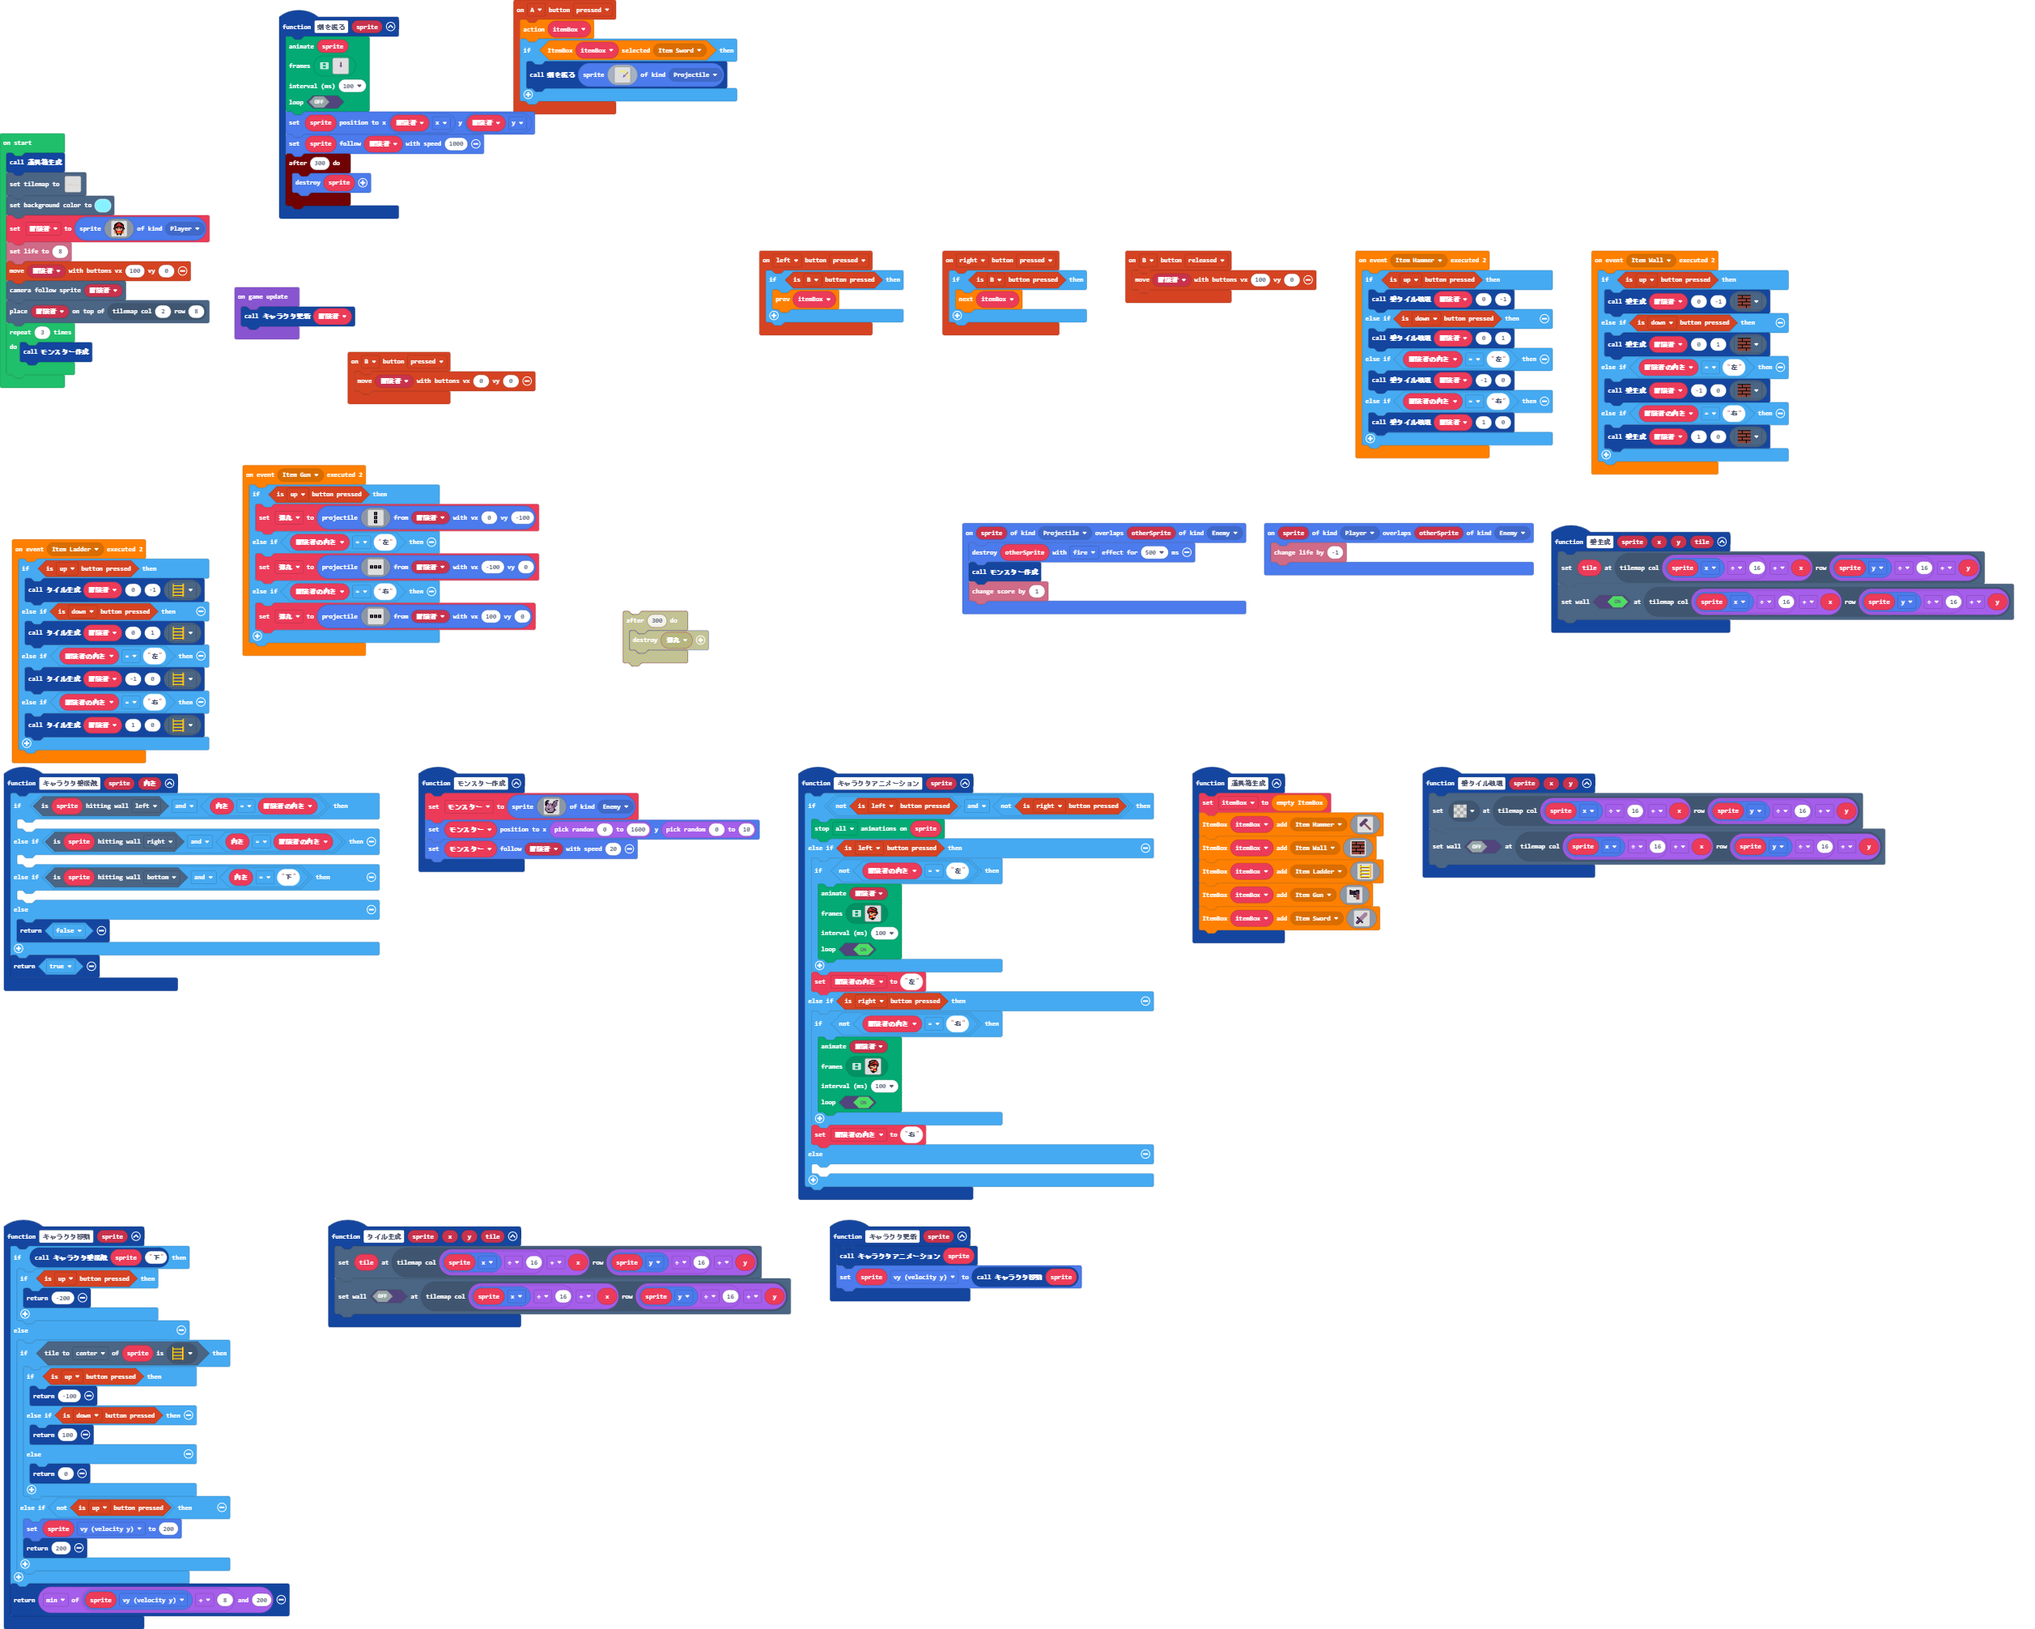
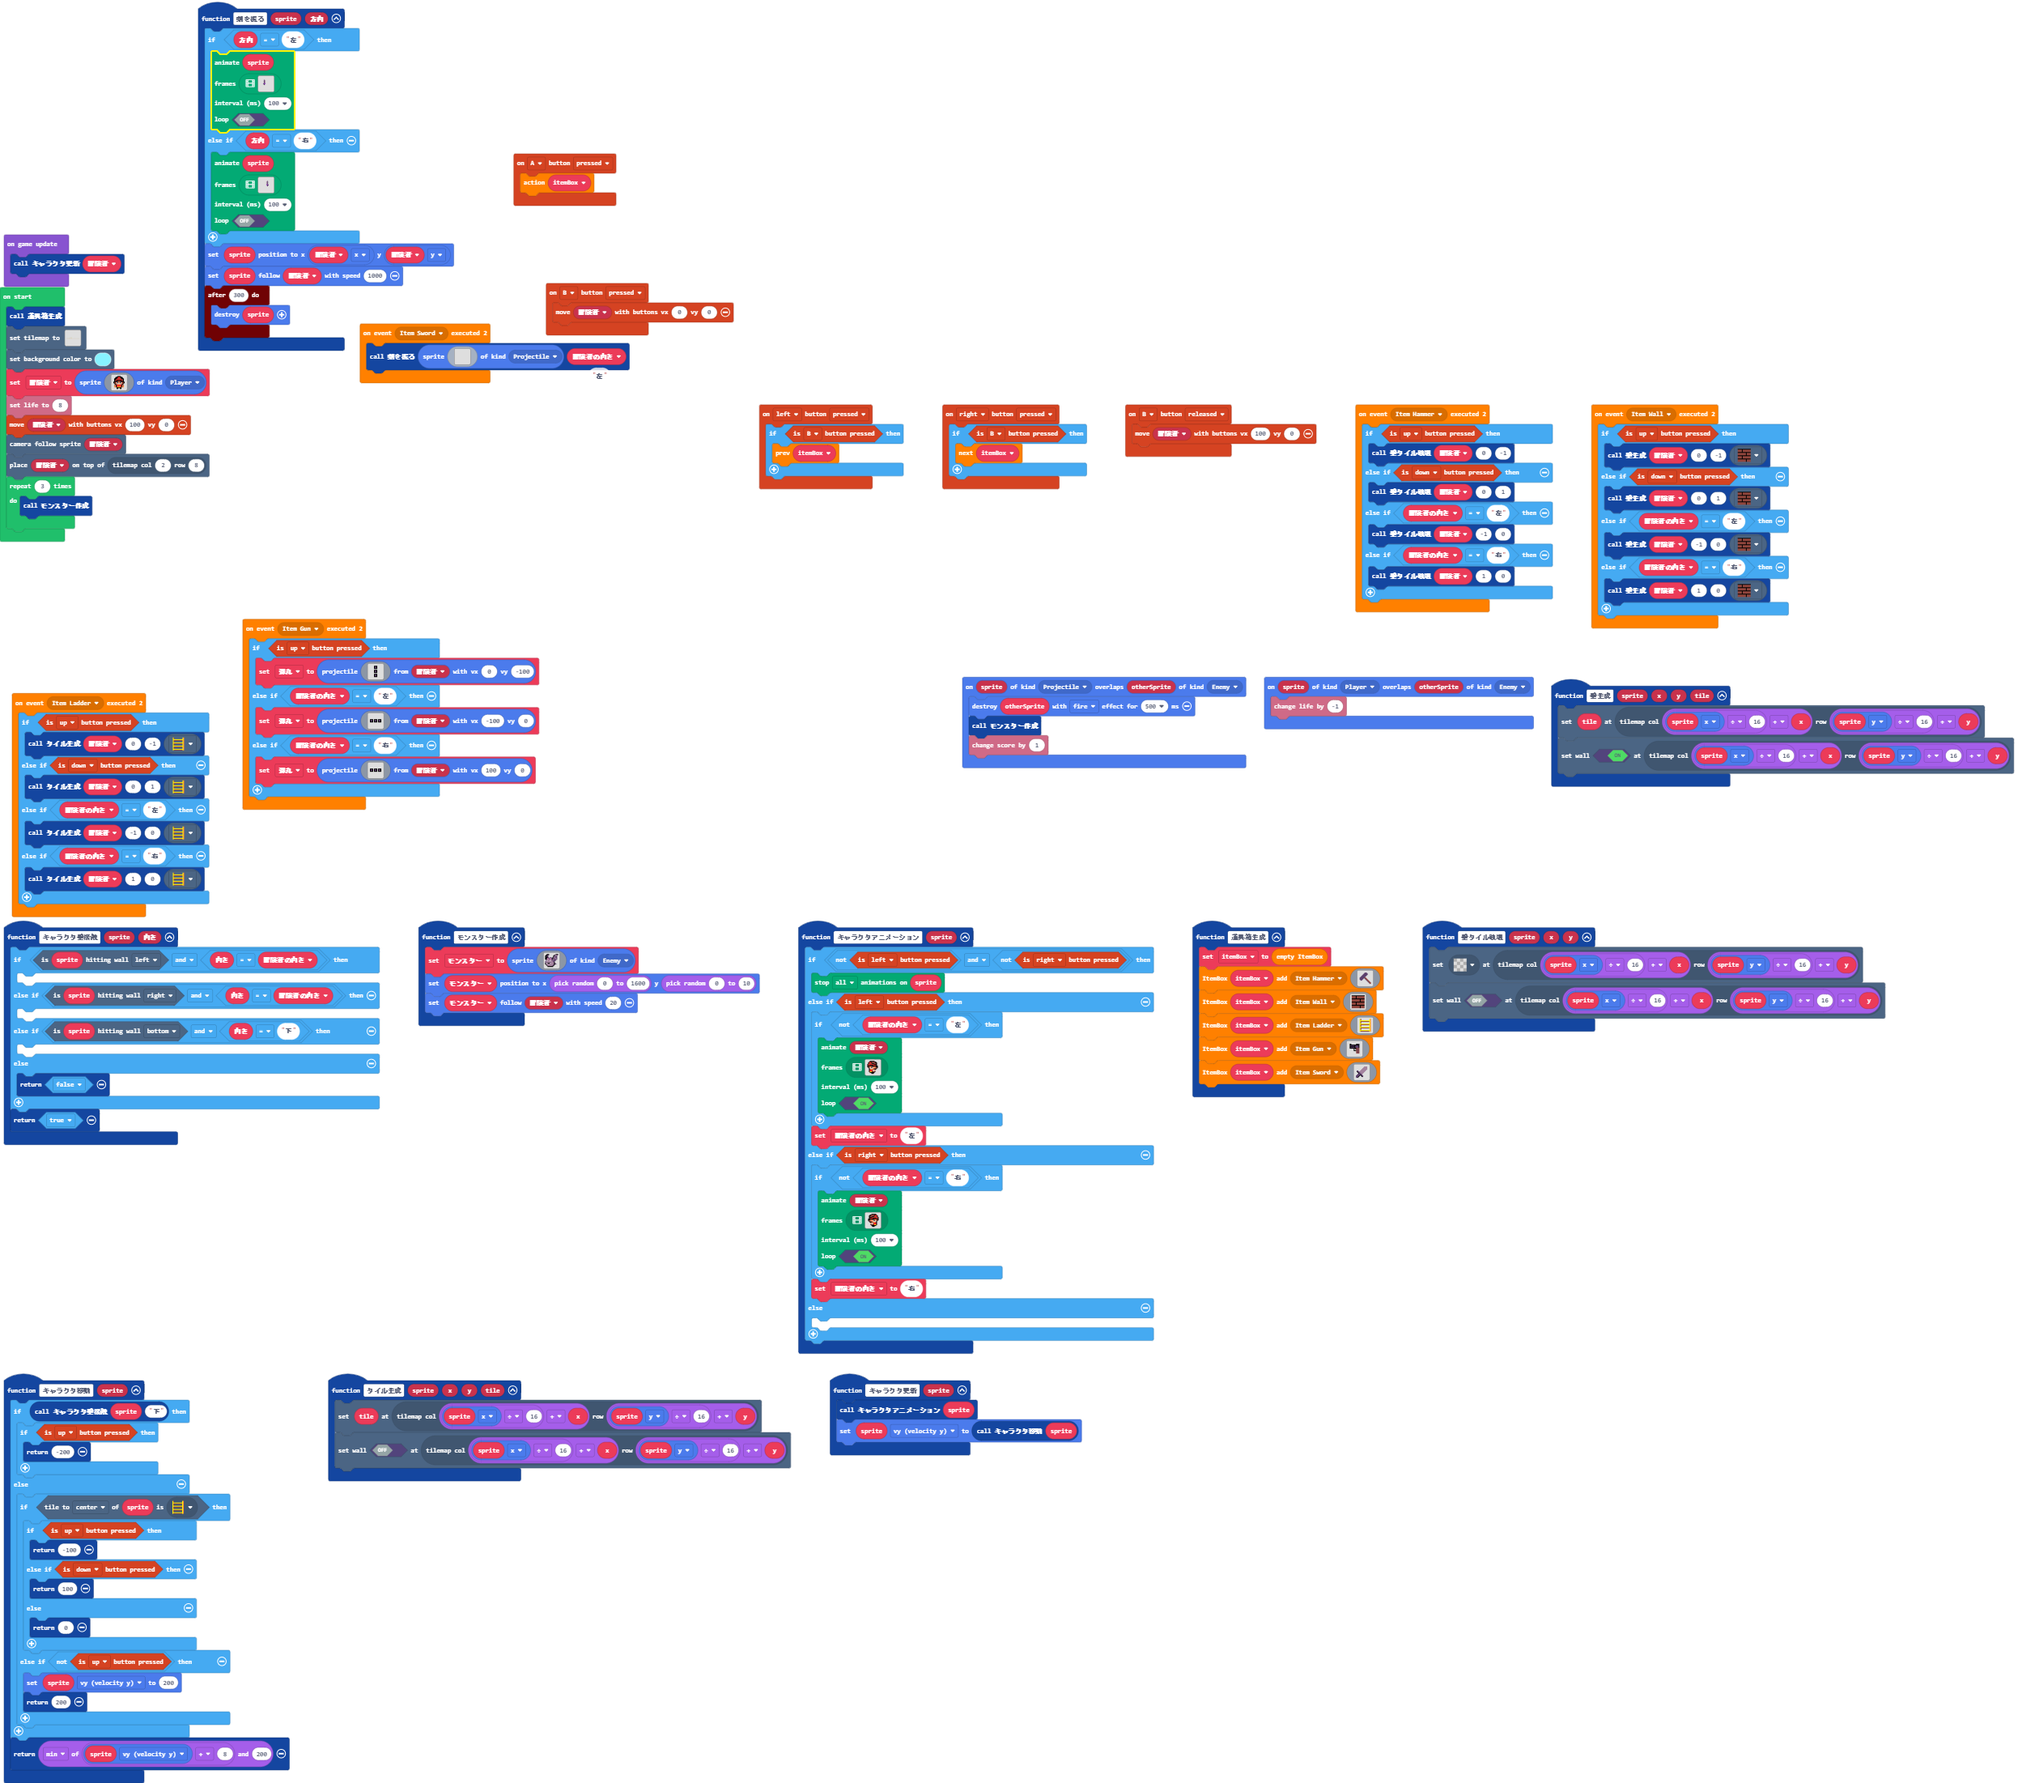
Update main.blocks, main.ts, images.g.jres, images.g.ts

Changed region(s): [[0.0, 0.0, 0.9928, 0.832], [0.0, 0.7396, 0.1551, 1.0]]

diff --git a/images.g.ts b/images.g.ts
@@ -98,29 +98,6 @@ namespace myImages {
 . c c f . . . . . . . . . . . . 
 . . . . . . . . . . . . . . . . 
 `;
-            case "image7":
-            case "myImage1":return img`
-..........55555555555...........
-........55...........55.........
-......55..55555555555..55.......
-.....5..55...........55..5......
-....5..5...............5..5.....
-...5..5.................5..5....
-..5..5...................5..5...
-..5.5.....................5.5...
-.5.5.......................5.5..
-.5.5.......................5.5..
-5.5.........................5.5.
-5.5.........................5.5.
-5.5.........................5.5.
-5.5.........................5.5.
-5.5.........................5.5.
-5.5.........................5.5.
-5.5.........................5.5.
-5.5.........................5.5.
-5.5.........................5.5.
-5.5.........................5.5.
-`;
             case "image6":
             case "myImage0":return img`
 ..........55555555555...........
@@ -150,21 +127,21 @@ namespace myImages {
 
     helpers._registerFactory("animation", function(name: string) {
         switch(helpers.stringTrim(name)) {
-            case "myAnim":
+            case "sword_right_anim":
             case "anim1":return [img`
-...............bc...............
-..............bbcc..............
-..............bbcc..............
-..............bbcc..............
-..............bbcc..............
-..............bbcc..............
-..............bbcc..............
-..............bbcc..............
-..............bbcc..............
-.............aaaaaa.............
-..............aaaff.............
-...............af...............
-...............af...............
+..................bc............
+.................bbcc...........
+.................bbcc...........
+.................bbcc...........
+.................bbcc...........
+.................bbcc...........
+.................bbcc...........
+.................bbcc...........
+.................bbcc...........
+................aaaaaa..........
+.................aaaff..........
+..................af............
+..................af............
 ................................
 ................................
 ................................
@@ -175,16 +152,16 @@ namespace myImages {
 `, img`
 ................................
 ................................
-.......................bbb......
-......................bbbc......
-.....................bbbcc......
-....................bbbcc.......
-................a..bbbcc........
-................aabbbcc.........
-.................aabcc..........
-.................aaac...........
-................aafaa...........
-................af..aa..........
+...........................bbb..
+..........................bbbc..
+.........................bbbcc..
+........................bbbcc...
+....................a..bbbcc....
+....................aabbbcc.....
+.....................aabcc......
+.....................aaac.......
+....................aafaa.......
+....................af..aa......
 ................................
 ................................
 ................................
@@ -201,14 +178,79 @@ namespace myImages {
 ................................
 ................................
 ................................
+......................a.........
+.....................aabbbbbbbb.
+...................aaaabbbbbbbbb
+...................ffaaccccccccc
+.....................facccccccc.
+......................f.........
 ................................
 ................................
-.....................a..........
-....................aabbbbbbbb..
-..................aaaabbbbbbbbb.
-..................ffaaccccccccc.
-....................facccccccc..
-.....................f..........
+................................
+................................
+................................
+................................
+................................
+`];
+            case "sword_left_anim":
+            case "anim2":return [img`
+...........cb...................
+..........ccbb..................
+..........ccbb..................
+..........ccbb..................
+..........ccbb..................
+..........ccbb..................
+..........ccbb..................
+..........ccbb..................
+..........ccbb..................
+.........aaaaaa.................
+.........ffaaa..................
+...........fa...................
+...........fa...................
+................................
+................................
+................................
+................................
+................................
+................................
+................................
+`, img`
+................................
+................................
+..bbb...........................
+..cbbb..........................
+..ccbbb.........................
+...ccbbb........................
+....ccbbb..a....................
+.....ccbbbaa....................
+......ccbaa.....................
+.......caaa.....................
+.......aafaa....................
+......aa..fa....................
+................................
+................................
+................................
+................................
+................................
+................................
+................................
+................................
+`, img`
+................................
+................................
+................................
+................................
+................................
+................................
+................................
+.........a......................
+.bbbbbbbbaa.....................
+bbbbbbbbbaaaa...................
+cccccccccaaff...................
+.ccccccccaf.....................
+.........f......................
+................................
+................................
 ................................
 ................................
 ................................

diff --git a/main.ts b/main.ts
@@ -39,9 +39,6 @@ controller.B.onEvent(ControllerButtonEvent.Pressed, function () {
 })
 controller.A.onEvent(ControllerButtonEvent.Pressed, function () {
     itemBox.action()
-    if (itemBox.isSelected(ItemKind.Sword)) {
-        剣を振る(sprites.create(assets.image`myImage0`, SpriteKind.Projectile))
-    }
 })
 controller.left.onEvent(ControllerButtonEvent.Pressed, function () {
     if (controller.B.isPressed()) {
@@ -56,6 +53,26 @@ function 道具箱生成 () {
     itemBox.add(ItemKind.Gun, assets.image`ハンドガン`)
     itemBox.add(ItemKind.Sword, assets.image`myImage`)
 }
+Items.onEvent(ItemKind.Sword, function () {
+    剣を振る(sprites.create(img`
+        . . . . . . . . . . . . . . . . 
+        . . . . . . . . . . . . . . . . 
+        . . . . . . . . . . . . . . . . 
+        . . . . . . . . . . . . . . . . 
+        . . . . . . . . . . . . . . . . 
+        . . . . . . . . . . . . . . . . 
+        . . . . . . . . . . . . . . . . 
+        . . . . . . . . . . . . . . . . 
+        . . . . . . . . . . . . . . . . 
+        . . . . . . . . . . . . . . . . 
+        . . . . . . . . . . . . . . . . 
+        . . . . . . . . . . . . . . . . 
+        . . . . . . . . . . . . . . . . 
+        . . . . . . . . . . . . . . . . 
+        . . . . . . . . . . . . . . . . 
+        . . . . . . . . . . . . . . . . 
+        `, SpriteKind.Projectile), 冒険者の向き)
+})
 function キャラクタ更新 (sprite: Sprite) {
     キャラクタアニメーション(sprite)
     sprite.vy = キャラクタ移動(sprite)
@@ -85,13 +102,22 @@ Items.onEvent(ItemKind.Gun, function () {
         弾丸 = sprites.createProjectileFromSprite(assets.image`弾丸`, 冒険者, 100, 0)
     }
 })
-function 剣を振る (sprite: Sprite) {
-    animation.runImageAnimation(
-    sprite,
-    assets.animation`myAnim`,
-    100,
-    false
-    )
+function 剣を振る (sprite: Sprite, 方向: string) {
+    if (方向 == "左") {
+        animation.runImageAnimation(
+        sprite,
+        assets.animation`sword_left_anim`,
+        100,
+        false
+        )
+    } else if (方向 == "右") {
+        animation.runImageAnimation(
+        sprite,
+        assets.animation`sword_right_anim`,
+        100,
+        false
+        )
+    }
     sprite.setPosition(冒険者.x, 冒険者.y)
     sprite.follow(冒険者, 1000)
     timer.after(300, function () {
